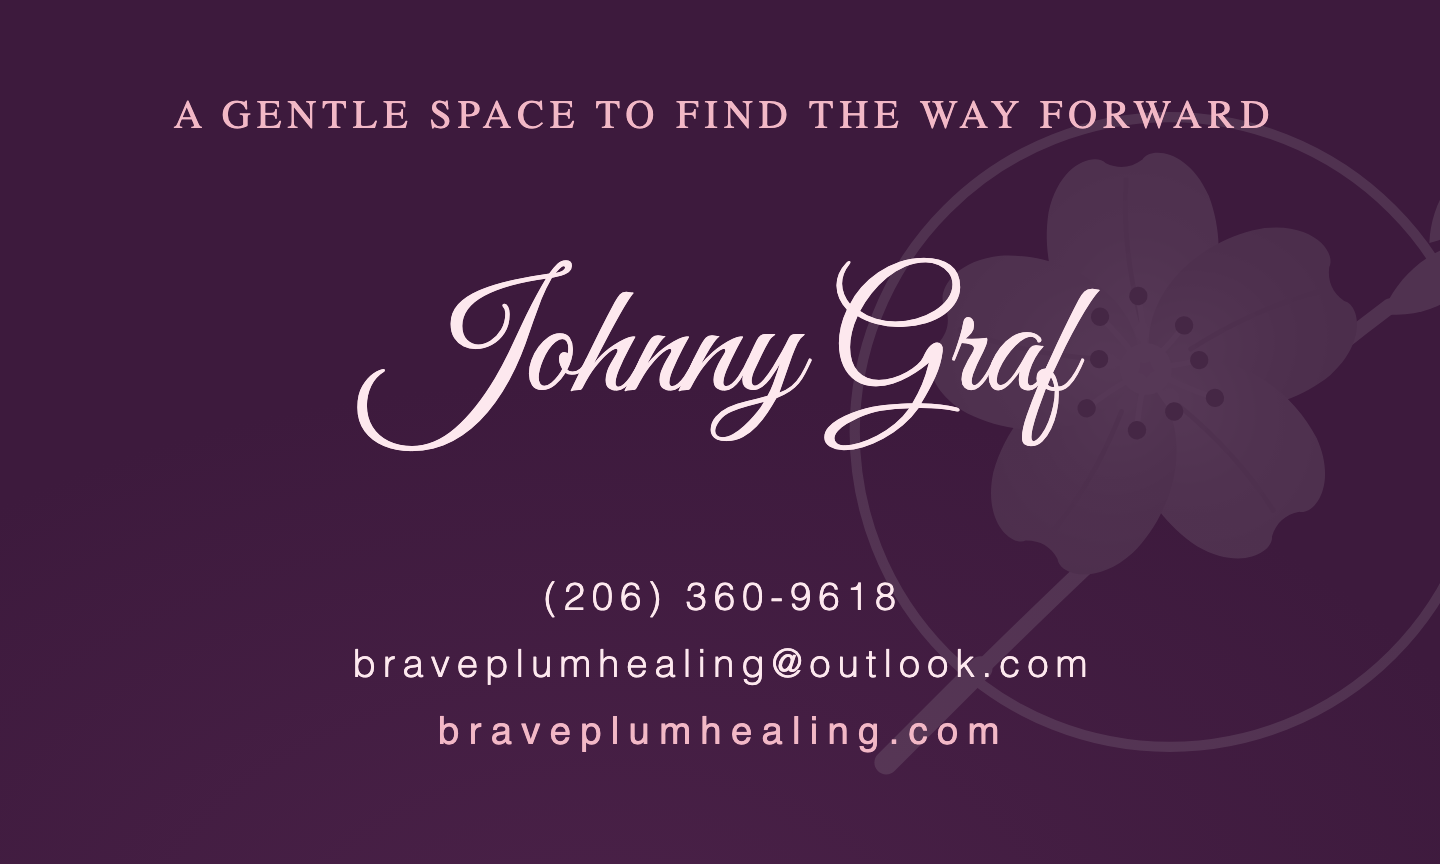
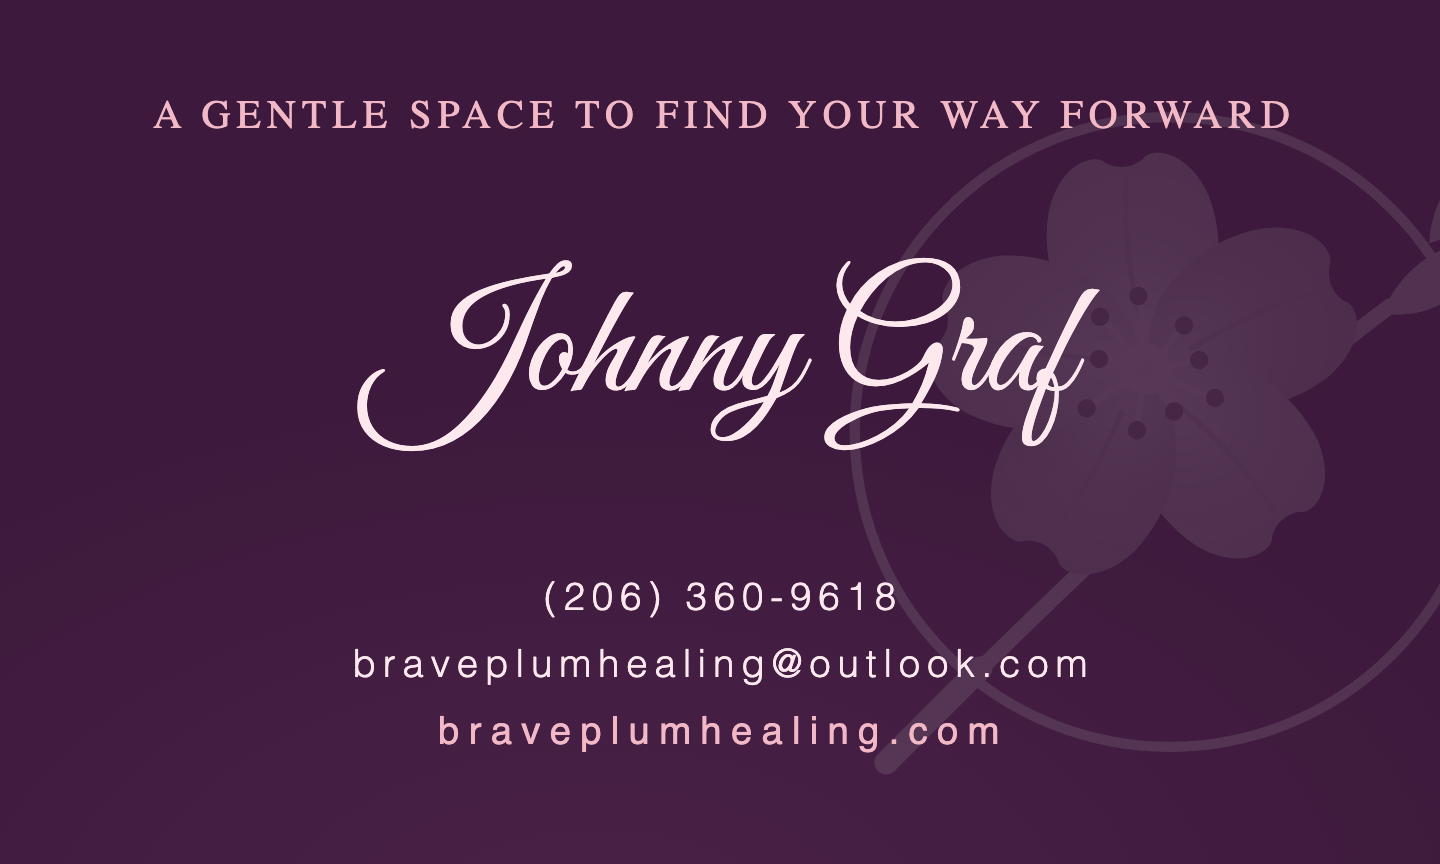
The sign on the front door: 'A gentle space to find YOUR way forward'
One word from the order-lives-in-chaos dialogue — the way belongs to the
one walking it. Hero + card back + Desktop print file, all in step.

Changed region(s): [[0.0938, 0.0938, 0.9062, 0.1562]]

diff --git a/outreach/business-cards/card-back.html b/outreach/business-cards/card-back.html
@@ -22,7 +22,7 @@ body { width:3.75in; height:2.25in; overflow:hidden; position:relative;
 </style></head><body>
 <svg class="watermark" viewBox="-50 -50 100 100" xmlns="http://www.w3.org/2000/svg"><mask id="wmcut"><rect x="-50" y="-50" width="100" height="100" fill="white"/><circle cx="-3" cy="-8" r="23" fill="black"/></mask><circle r="40" fill="none" stroke="#F2B8C6" stroke-width="1.3"/><g mask="url(#wmcut)"><path d="M-36 42C-20 26 4 2 28 -16" stroke="#F2B8C6" stroke-width="2" fill="none" stroke-linecap="round"/><path d="M-36 42C-31 37 -28 34 -24 30" stroke="#F2B8C6" stroke-width="3" fill="none" stroke-linecap="round"/></g><g transform="translate(27,-15) rotate(-38)"><path d="M0 0C5 -3 12 -3 16 1C12 5 5 5 0 0Z" fill="#F2B8C6"/></g><g transform="translate(33,-24) rotate(-58)"><path d="M0 0C4.5 -2.6 10.5 -2.6 14 .9C10.5 4.4 4.5 4.4 0 0Z" fill="#F2B8C6"/></g><defs><radialGradient id="cardba" cx="50%" cy="85%" r="85%"><stop offset="0%" stop-color="#FDE8EE"/><stop offset="55%" stop-color="#F2B8C6"/><stop offset="100%" stop-color="#EDA5BA"/></radialGradient><radialGradient id="cardbb" cx="50%" cy="85%" r="85%"><stop offset="0%" stop-color="#FBD9E2"/><stop offset="60%" stop-color="#EDA5BA"/><stop offset="100%" stop-color="#E293AC"/></radialGradient></defs><g transform="translate(-3,-8) scale(.78)"><g transform="rotate(-6)"><g transform="rotate(0)"><path d="M0 -1C-11.2 -3 -16 -16.2 -13.12 -27C-10.56 -34.92 -4.48 -36 -3 -34C-1 -32.8 1 -32.8 3 -34C4.48 -36 10.56 -34.92 13.12 -27C16 -16.2 11.2 -3 0 -1Z" fill="url(#cardba)" fill-opacity="1"/><path d="M0 -8C-1.2 -16 -1.2 -24 0 -31" stroke="#E293AC" stroke-width=".8" fill="none" stroke-opacity=".48" stroke-linecap="round"/></g><g transform="rotate(72)"><path d="M0 -1C-11.2 -3 -16 -16.2 -13.12 -27C-10.56 -34.92 -4.48 -36 -3 -34C-1 -32.8 1 -32.8 3 -34C4.48 -36 10.56 -34.92 13.12 -27C16 -16.2 11.2 -3 0 -1Z" fill="url(#cardbb)" fill-opacity="1"/><path d="M0 -8C-1.2 -16 -1.2 -24 0 -31" stroke="#E293AC" stroke-width=".8" fill="none" stroke-opacity=".48" stroke-linecap="round"/></g><g transform="rotate(144)"><path d="M0 -1C-11.2 -3 -16 -16.2 -13.12 -27C-10.56 -34.92 -4.48 -36 -3 -34C-1 -32.8 1 -32.8 3 -34C4.48 -36 10.56 -34.92 13.12 -27C16 -16.2 11.2 -3 0 -1Z" fill="url(#cardba)" fill-opacity="1"/><path d="M0 -8C-1.2 -16 -1.2 -24 0 -31" stroke="#E293AC" stroke-width=".8" fill="none" stroke-opacity=".48" stroke-linecap="round"/></g><g transform="rotate(216)"><path d="M0 -1C-11.2 -3 -16 -16.2 -13.12 -27C-10.56 -34.92 -4.48 -36 -3 -34C-1 -32.8 1 -32.8 3 -34C4.48 -36 10.56 -34.92 13.12 -27C16 -16.2 11.2 -3 0 -1Z" fill="url(#cardbb)" fill-opacity="1"/><path d="M0 -8C-1.2 -16 -1.2 -24 0 -31" stroke="#E293AC" stroke-width=".8" fill="none" stroke-opacity=".48" stroke-linecap="round"/></g><g transform="rotate(288)"><path d="M0 -1C-11.2 -3 -16 -16.2 -13.12 -27C-10.56 -34.92 -4.48 -36 -3 -34C-1 -32.8 1 -32.8 3 -34C4.48 -36 10.56 -34.92 13.12 -27C16 -16.2 11.2 -3 0 -1Z" fill="url(#cardba)" fill-opacity="1"/><path d="M0 -8C-1.2 -16 -1.2 -24 0 -31" stroke="#E293AC" stroke-width=".8" fill="none" stroke-opacity=".48" stroke-linecap="round"/></g><circle r="4.2" fill="#FDE8EE" fill-opacity=".95"/><path d="M0 -3.2Q0.39 -6.57 0 -11.96" stroke="#FDE8EE" stroke-width=".9" fill="none" stroke-linecap="round"/><circle cx="0" cy="-11.96" r="1.5" fill="#C4637E"/><path d="M2.35 -2.18Q4.01 -3.3 6.92 -6.42" stroke="#FDE8EE" stroke-width=".9" fill="none" stroke-linecap="round"/><circle cx="6.92" cy="-6.42" r="1.5" fill="#C4637E"/><path d="M3.19 -0.2Q4.83 -0.01 8.77 -0.54" stroke="#FDE8EE" stroke-width=".9" fill="none" stroke-linecap="round"/><circle cx="8.77" cy="-0.54" r="1.5" fill="#C4637E"/><path d="M2.81 1.54Q5.67 3.57 10.68 5.85" stroke="#FDE8EE" stroke-width=".9" fill="none" stroke-linecap="round"/><circle cx="10.68" cy="5.85" r="1.5" fill="#C4637E"/><path d="M1.48 2.83Q1.87 4.17 3.85 7.36" stroke="#FDE8EE" stroke-width=".9" fill="none" stroke-linecap="round"/><circle cx="3.85" cy="7.36" r="1.5" fill="#C4637E"/><path d="M-0.79 3.1Q-1.69 5.28 -2.5 9.76" stroke="#FDE8EE" stroke-width=".9" fill="none" stroke-linecap="round"/><circle cx="-2.5" cy="9.76" r="1.5" fill="#C4637E"/><path d="M-2.84 1.48Q-5.82 2.6 -10.28 5.35" stroke="#FDE8EE" stroke-width=".9" fill="none" stroke-linecap="round"/><circle cx="-10.28" cy="5.35" r="1.5" fill="#C4637E"/><path d="M-3.04 -0.98Q-4 -1.56 -7.43 -2.4" stroke="#FDE8EE" stroke-width=".9" fill="none" stroke-linecap="round"/><circle cx="-7.43" cy="-2.4" r="1.5" fill="#C4637E"/><path d="M-1.85 -2.61Q-3.29 -5.29 -6.55 -9.25" stroke="#FDE8EE" stroke-width=".9" fill="none" stroke-linecap="round"/><circle cx="-6.55" cy="-9.25" r="1.5" fill="#C4637E"/></g></g></svg>
 <div class="layout">
-  <div class="tagline">A Gentle Space to Find the Way Forward</div>
+  <div class="tagline">A Gentle Space to Find Your Way Forward</div>
   <div class="signature">Johnny Graf</div>
   <div class="details">
     (206)&nbsp;360-9618<br>

diff --git a/brain/decisions.md b/brain/decisions.md
@@ -2,6 +2,14 @@
 
 Append-only. Newest first. Re-opening a decision is fine — silently contradicting one is not.
 
+## 2026-08-23 — THE SIGN ON THE FRONT DOOR: "find YOUR way forward"
+Born directly from the order-lives-in-chaos dialogue (download part twelve): if the
+helper holds the container and the way is found by the one walking it, then the way was
+never "the" way — it is THEIRS. Johnny: "maybe it should read, 'A gentle space to find
+your way forward'." Applied: homepage hero h1 AND the business-card back tagline (Desktop
+print file refreshed BEFORE printing — caught in time). One word, whole philosophy.
+Supersedes the 2026-08-11 "the way forward" wording everywhere the sentence appears.
+
 ## 2026-08-23 — "For My Son" will be PERFORMED: Gallery One gala, Sept 25
 The midnight letter (brain/downloads/2026-08-22-for-my-son.md) is a poem, by Johnny's
 own naming, and he will perform it **September 25, 2026 at the Gallery One gala**.
